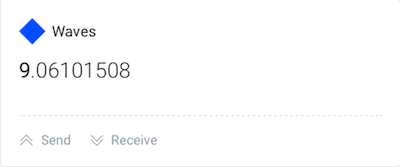
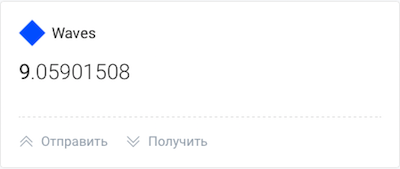
Updates

diff --git a/ru/waves-client/transfers-and-gateways/buying-waves-using-card.md b/ru/waves-client/transfers-and-gateways/buying-waves-using-card.md
@@ -1,18 +1,16 @@
-# How to receive Waves using credit or debit card.
+# **Как купить Waves, используя банковскую карту**.
 
-Open up your wallet.
-In the Waves section click on the **Receive** button.
+Waves кошелёк поддерживает небольшие покупки Waves за Доллары и Евро (минимальная сумма пополнения - 30 USD/EUR, максимальная сумма пополнения - 200 USD/EUR) с помощью Банковской карты.
 
-![](/_assets/buying_waves_using_card_01.png)
+Откройте свой Waves кошелёк и в секции Waves нажмите на **Получить**.
 
-The following pop-up will appear.
+![](/ru/_assets/buying_waves_using_card_01.png)
 
-Define the amount in **EUR** or **USD** you want to spend by selecting it in the dropdown menu and the client automatically returns you the amount of Waves you are going to receive after payment.
-See **Approximately** field.
+В появившемся окне выберите раздел **Карта** и валюту (**USD** или **EUR**) и сумму покупки.
+После этого в поле **Примерно вы получите** отобразиться примерное количество Waves, которое вы получите после совершения сделки.
 
-![](/_assets/buying_waves_using_card_02.png)
+![](/ru/_assets/buying_waves_using_card_02.png)
 
-After you have filled the form, click on the **Continue** button and you will be forwarded to our gateway partner [Indacoin.com](https://indacoin.com/)
-Go through the verification and payment process and you'll receive your Waves within a few minutes.
+После заполнения всех полей формы нажмите на кнопку Продолжить и вы будете перенаправлены на сайт нашего партнера [Indacoin.com](https://indacoin.com/): пройдите процесс верификации и оплаты - и получите Waves в течении нескольких минут.
 
-![](/_assets/buying_waves_using_card_03.png)
+![](/ru/_assets/buying_waves_using_card_03.png)
